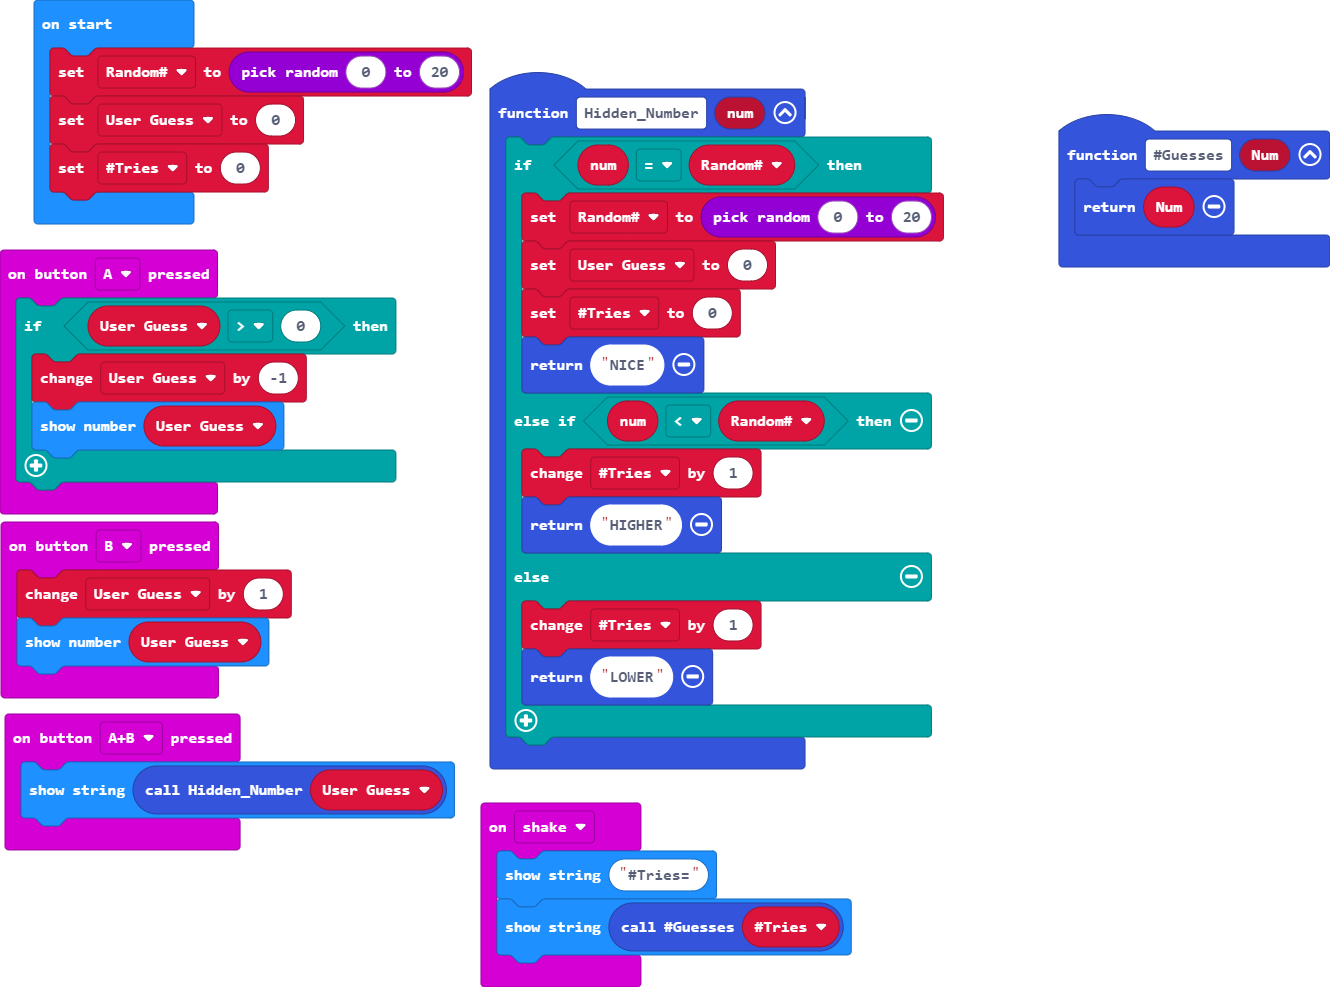
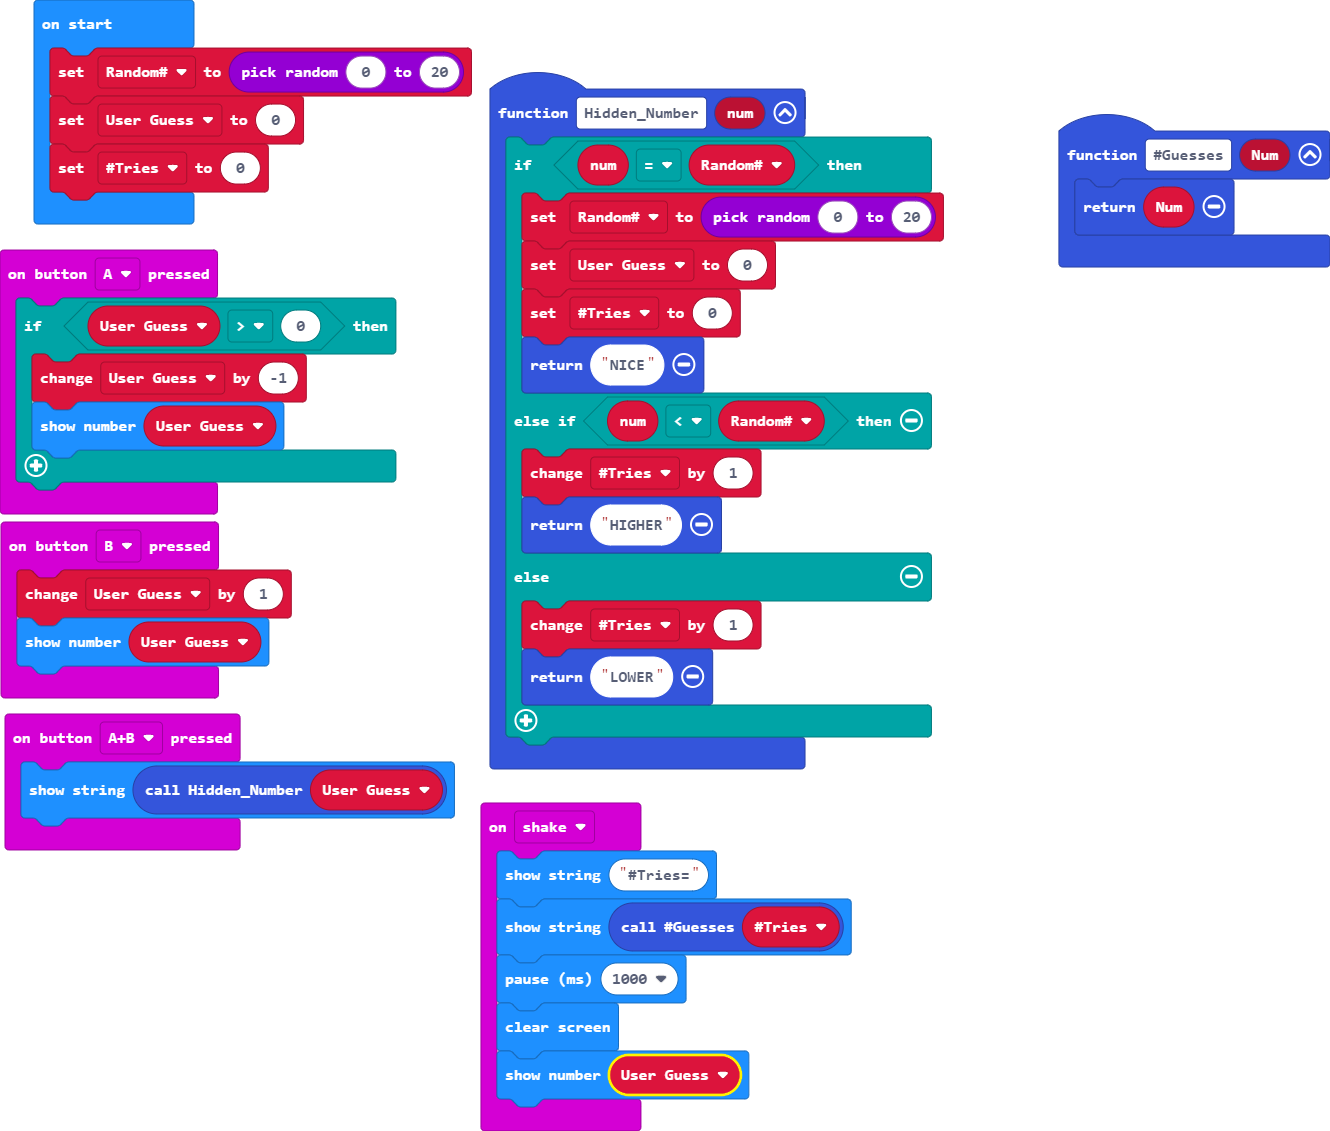
Update main.blocks, main.ts

diff --git a/main.ts b/main.ts
@@ -17,6 +17,9 @@ input.onButtonPressed(Button.B, function () {
 input.onGesture(Gesture.Shake, function () {
     basic.showString("#Tries=")
     basic.showString("" + (Guesses(Tries)))
+    basic.pause(1000)
+    basic.clearScreen()
+    basic.showNumber(User_Guess)
 })
 function Hidden_Number (num: number) {
     if (num == Random) {
